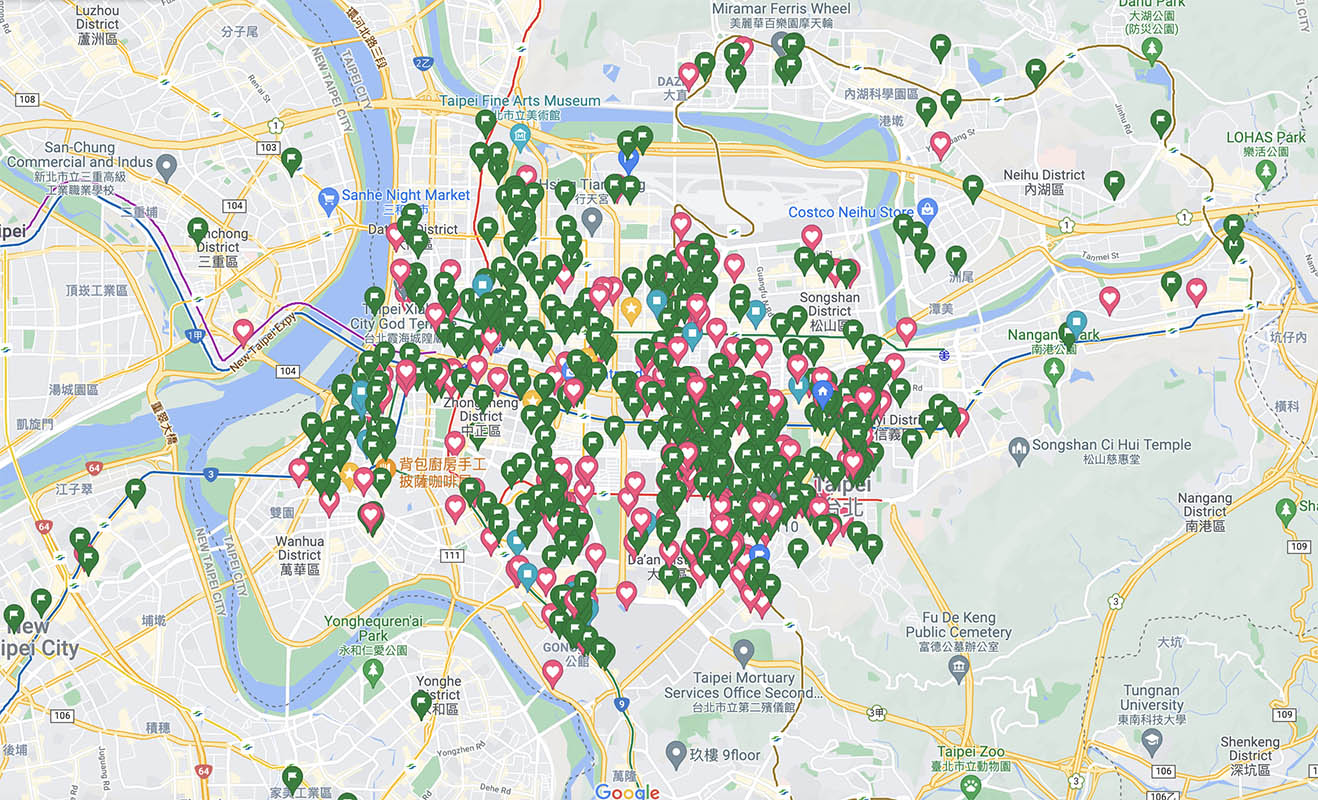
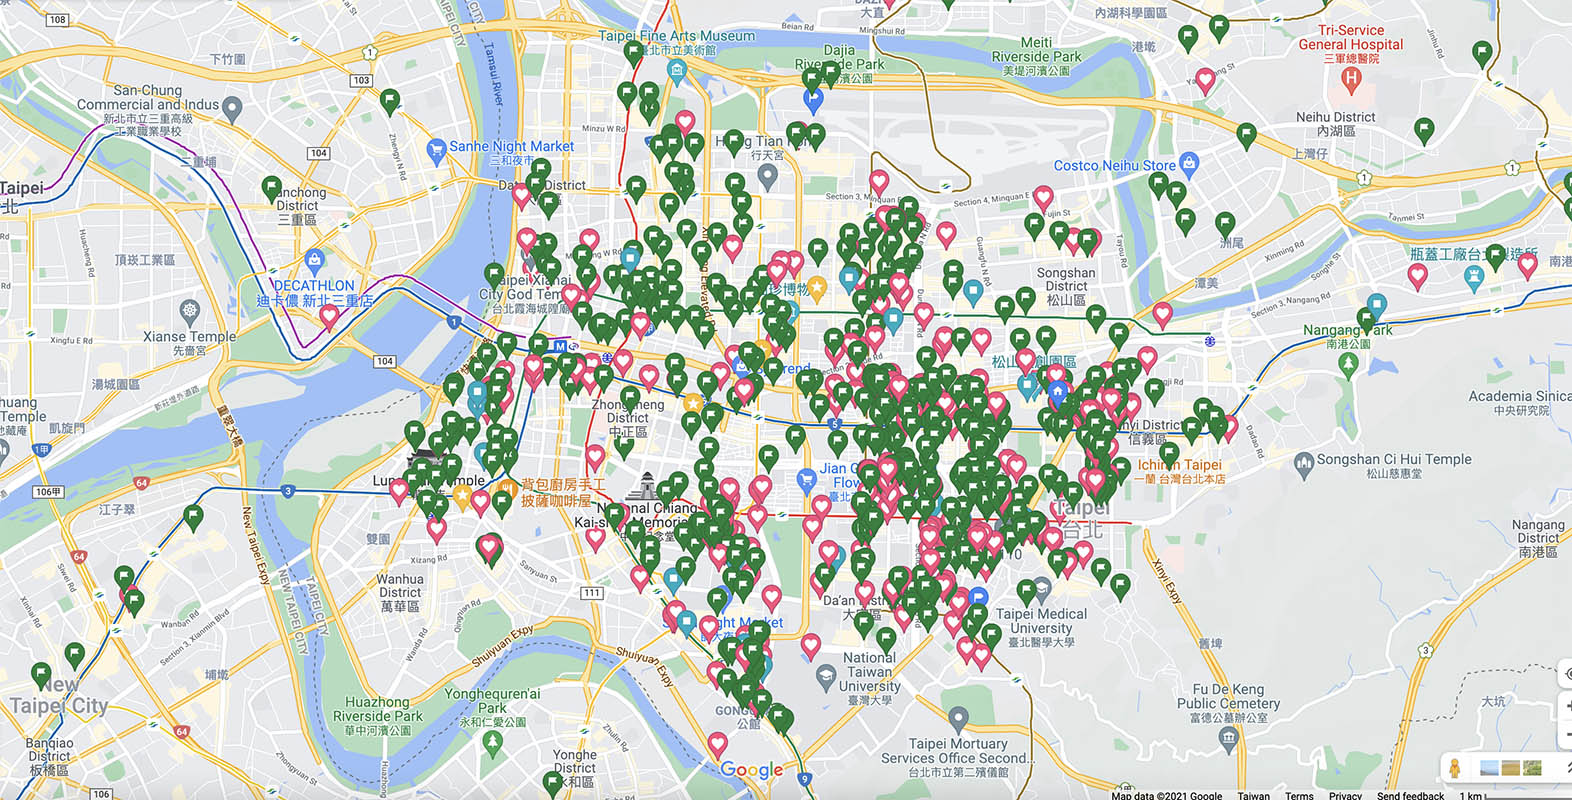
update

diff --git a/public/posts/taipei-restaurants/index.html b/public/posts/taipei-restaurants/index.html
@@ -173,6 +173,8 @@ You can order in the front, and they have a big room behind where you can seat. 
 <p>A local shop selling japanese sashimi and Donburi (bowl of rice with sashimi). Excellent value.  You&rsquo;ll have to come here early because locals come to queue here before the shop open. I especially enjoy the miso soup that have huge chunks of salmon in it.</p>
 <p>Link: <a href="https://goo.gl/maps/ZMRxoP2FJfoj1kvc7">https://goo.gl/maps/ZMRxoP2FJfoj1kvc7</a></p>
 <p><img src="https://erickhun.com/img/taipei-restaurants/donburi.jpg" alt=""></p>
+<p>This was a really hard list to do.   I&rsquo;m sure I might have forgotten some gems, but that will be the opportunity to make another post. You can see here the pins of restaurant I&rsquo;ve liked (pink) and the one I want to try (green):</p>
+<p><img src="https://erickhun.com/img/taipei-restaurants/taipei-map.jpg" alt=""></p>
 <p>If you enjoyed that selection, you might be a good fit for the &ldquo;Foodies in Taipei Line group&rdquo; where many fooedies contribute about what they eat and new finding in Taipei. Reach me out on <a href="https://twitter.com/eric_khun">Twitter</a>. I filter quite a bit, so try to sell yourself why you worth being added in the group ;)</p>
 
 

diff --git a/content/posts/taipei-restaurants.md b/content/posts/taipei-restaurants.md
@@ -103,5 +103,9 @@ Link: https://goo.gl/maps/ZMRxoP2FJfoj1kvc7
 
 ![](/img/taipei-restaurants/donburi.jpg)
 
+This was a really hard list to do.   I'm sure I might have forgotten some gems, but that will be the opportunity to make another post. You can see here the pins of restaurant I've liked (pink) and the one I want to try (green): 
+
+![](/img/taipei-restaurants/taipei-map.jpg)
+
 
 If you enjoyed that selection, you might be a good fit for the "Foodies in Taipei Line group" where many fooedies contribute about what they eat and new finding in Taipei. Reach me out on [Twitter](https://twitter.com/eric_khun). I filter quite a bit, so try to sell yourself why you worth being added in the group ;) 
